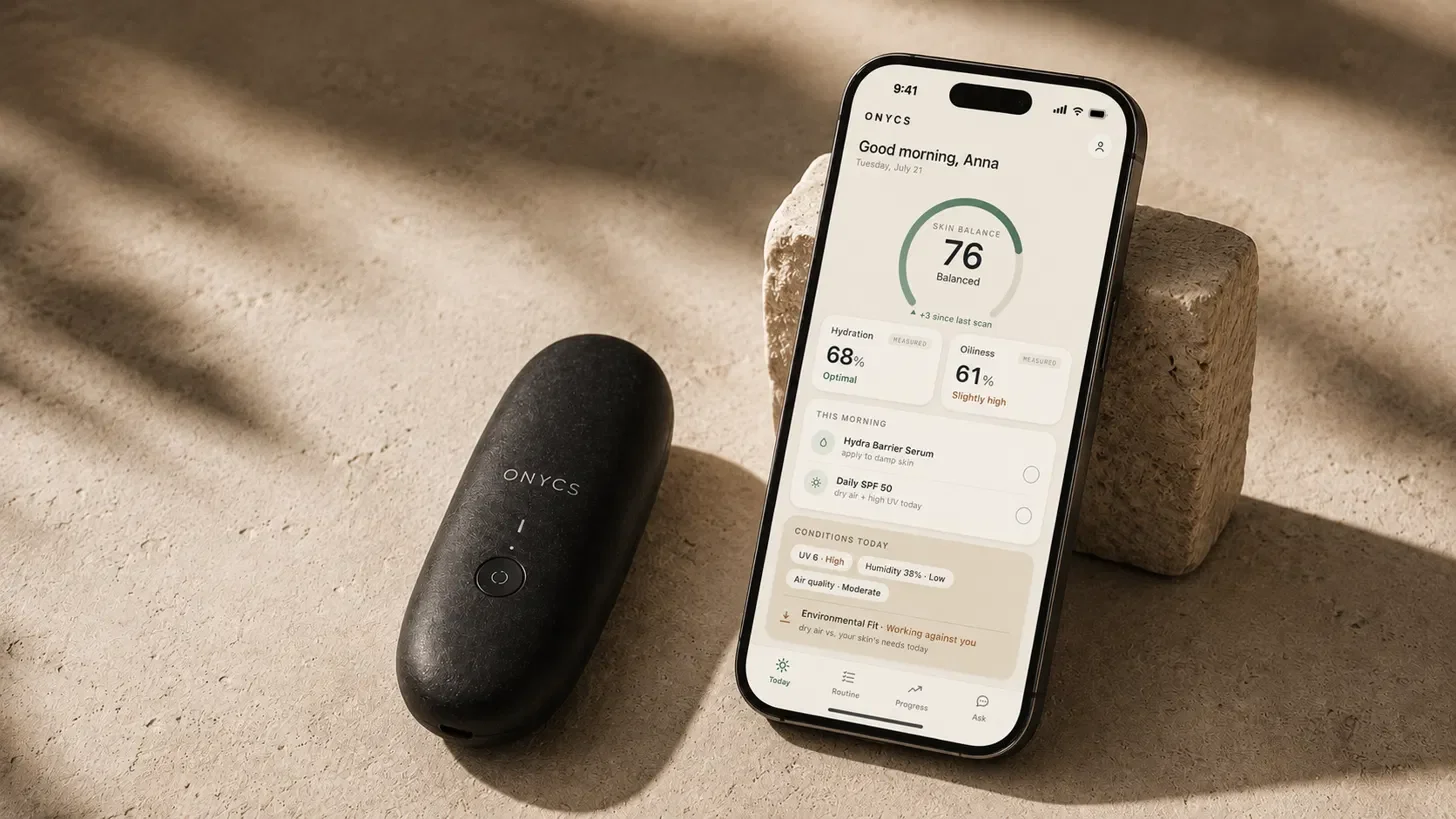
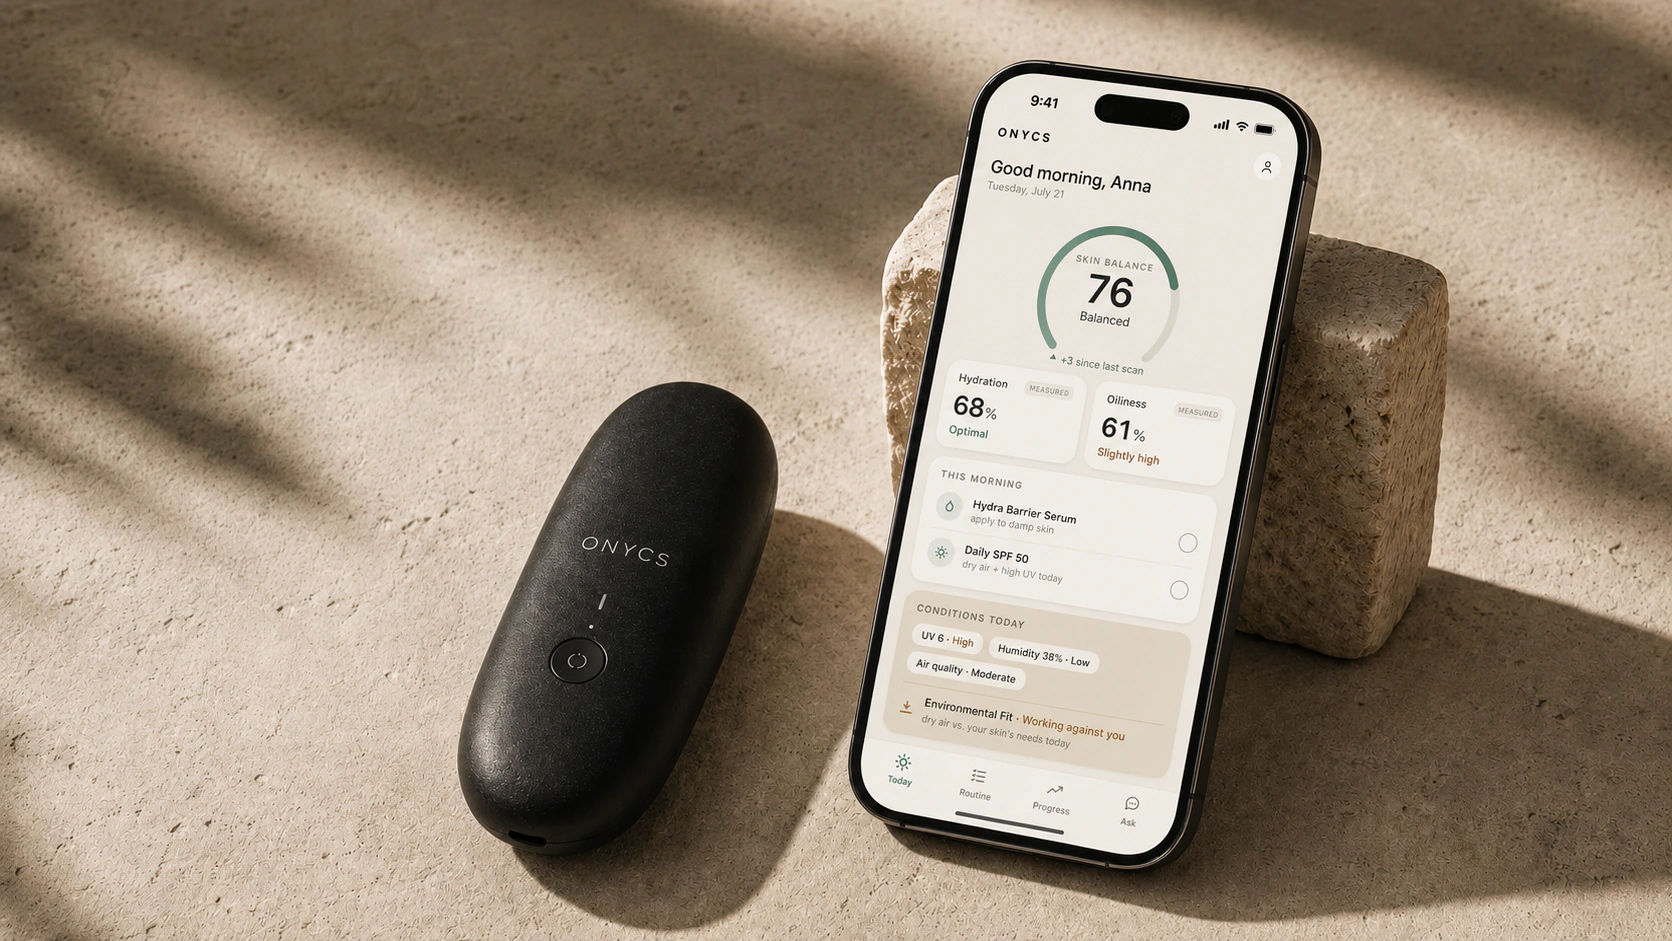
Refresh solution and value imagery

diff --git a/index.html b/index.html
@@ -319,10 +319,10 @@
         </div>
         <figure class="solution-figure">
           <img
-            src="assets/device-app.webp"
+            src="assets/device-app.webp?v=20260727-final"
             alt="ONYCS device and app on natural stone"
-            width="1456"
-            height="819"
+            width="1672"
+            height="941"
             loading="lazy"
           />
           <figcaption class="solution-labels">
@@ -359,7 +359,7 @@
           <figure>
             <div class="image-frame">
               <img
-                src="assets/skin-analysis.webp"
+                src="assets/skin-analysis.webp?v=20260727-final"
                 alt="ONYCS app showing a personalized skin analysis"
                 width="1254"
                 height="1254"
@@ -373,7 +373,7 @@
           <figure>
             <div class="image-frame">
               <img
-                src="assets/progress.webp"
+                src="assets/progress.webp?v=20260727-final"
                 alt="ONYCS app tracking skin progress over time"
                 width="1254"
                 height="1254"
